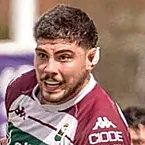
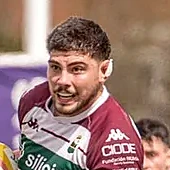
Retratos más grandes: Mateo sale de la foto completa del equipo
La miniatura de WhatsApp tenía la cabeza de Mateo en ~75px y era la
que ponía el techo de toda la fila. En la foto del 4x sub 23 mide
~195px: 2,6 veces más. Con eso deja de ser el eslabón flojo y pasa a
ser el más nítido de los tres.

El recorte se corta en x=315 a propósito: más a la derecha entra el
compañero de al lado y, en un círculo de 72px, su pelo rubio quedaba
como una mancha pegada a la cabeza de Mateo.

Ahora el techo lo pone Bautista, que viene de una foto de partido:
le di un poco más de recorte (145 -> 170px) y con eso los tres
retratos suben de 64 a 72px, nítidos al doble de densidad.

Claude-Session: https://claude.ai/code/session_01QtkrdvrrydSAuhSUbkMNvT

diff --git a/index.html b/index.html
@@ -46,7 +46,7 @@
 <link rel="preload" href="assets/fonts/archivo-var-latin.woff2" as="font" type="font/woff2" crossorigin>
 <link rel="preload" href="assets/fonts/archivo-black-latin.woff2" as="font" type="font/woff2" crossorigin>
 <link rel="preload" href="assets/fonts/barlow-cond-600-latin.woff2" as="font" type="font/woff2" crossorigin>
-<link rel="stylesheet" href="styles.css?v=20261058">
+<link rel="stylesheet" href="styles.css?v=20261059">
 </head>
 <body>
 
@@ -440,17 +440,17 @@
       <article class="voice reveal">
         <svg class="quote-mark" viewBox="0 0 40 30" aria-hidden="true"><path d="M0 30V16C0 7 5 1 15 0l2 5c-5 1-8 4-8 9h7v16H0zm23 0V16c0-9 5-15 15-16l2 5c-5 1-8 4-8 9h7v16H23z"/></svg>
         <p>Un espacio que disfruto mucho y recomiendo constantemente a mis amigos. Me ayuda a no perder el foco en las cosas que puedo controlar, y a abrazar las situaciones que la vida me presenta.</p>
-        <footer><span class="voice-foto"><span class="voice-ini" aria-hidden="true">AL</span><img src="assets/img/voces/alejo.webp" alt="Alejo Lavayen" width="200" height="200" loading="lazy" decoding="async"><svg class="voice-aro" viewBox="0 0 72 72" aria-hidden="true"><circle pathLength="1" cx="36" cy="36" r="34.6"/></svg></span><span class="voice-who"><span class="voice-name">Alejo Lavayen</span><span class="voice-sport">Rugby · Los Pumas 7s</span></span></footer>
+        <footer><span class="voice-foto"><span class="voice-ini" aria-hidden="true">AL</span><img src="assets/img/voces/alejo.webp" alt="Alejo Lavayen" width="216" height="216" loading="lazy" decoding="async"><svg class="voice-aro" viewBox="0 0 84 84" aria-hidden="true"><circle pathLength="1" cx="42" cy="42" r="40.6"/></svg></span><span class="voice-who"><span class="voice-name">Alejo Lavayen</span><span class="voice-sport">Rugby · Los Pumas 7s</span></span></footer>
       </article>
       <article class="voice reveal">
         <svg class="quote-mark" viewBox="0 0 40 30" aria-hidden="true"><path d="M0 30V16C0 7 5 1 15 0l2 5c-5 1-8 4-8 9h7v16H0zm23 0V16c0-9 5-15 15-16l2 5c-5 1-8 4-8 9h7v16H23z"/></svg>
         <p>Me hizo llegar a hacerme preguntas que quizás antes no me hubiera planteado. Noté cómo la confianza y la preparación mental evolucionaron.</p>
-        <footer><span class="voice-foto"><span class="voice-ini" aria-hidden="true">BA</span><img src="assets/img/voces/bauti.webp" alt="Bautista Arranz" width="145" height="145" loading="lazy" decoding="async"><svg class="voice-aro" viewBox="0 0 72 72" aria-hidden="true"><circle pathLength="1" cx="36" cy="36" r="34.6"/></svg></span><span class="voice-who"><span class="voice-name">Bautista Arranz</span><span class="voice-sport">Rugby · División de Honor, España</span></span></footer>
+        <footer><span class="voice-foto"><span class="voice-ini" aria-hidden="true">BA</span><img src="assets/img/voces/bauti.webp" alt="Bautista Arranz" width="170" height="170" loading="lazy" decoding="async"><svg class="voice-aro" viewBox="0 0 84 84" aria-hidden="true"><circle pathLength="1" cx="42" cy="42" r="40.6"/></svg></span><span class="voice-who"><span class="voice-name">Bautista Arranz</span><span class="voice-sport">Rugby · División de Honor, España</span></span></footer>
       </article>
       <article class="voice reveal">
         <svg class="quote-mark" viewBox="0 0 40 30" aria-hidden="true"><path d="M0 30V16C0 7 5 1 15 0l2 5c-5 1-8 4-8 9h7v16H0zm23 0V16c0-9 5-15 15-16l2 5c-5 1-8 4-8 9h7v16H23z"/></svg>
         <p>Me llevo una madurez emocional enorme. Aunque creas que estás bien, siempre hay un escalón más para subir y potenciar tu rendimiento.</p>
-        <footer><span class="voice-foto"><span class="voice-ini" aria-hidden="true">MW</span><img src="assets/img/voces/mateo.webp" alt="Mateo Wingord" width="130" height="130" loading="lazy" decoding="async"><svg class="voice-aro" viewBox="0 0 72 72" aria-hidden="true"><circle pathLength="1" cx="36" cy="36" r="34.6"/></svg></span><span class="voice-who"><span class="voice-name">Mateo Wingord</span><span class="voice-sport">Remo</span></span></footer>
+        <footer><span class="voice-foto"><span class="voice-ini" aria-hidden="true">MW</span><img src="assets/img/voces/mateo.webp" alt="Mateo Wingord" width="216" height="216" loading="lazy" decoding="async"><svg class="voice-aro" viewBox="0 0 84 84" aria-hidden="true"><circle pathLength="1" cx="42" cy="42" r="40.6"/></svg></span><span class="voice-who"><span class="voice-name">Mateo Wingord</span><span class="voice-sport">Remo</span></span></footer>
       </article>
 
     </div>
@@ -579,9 +579,9 @@
   <span class="wa-label">Escribime</span>
 </a>
 
-<script defer src="lib/gsap.min.js?v=20261058"></script>
-<script defer src="lib/ScrollTrigger.min.js?v=20261058"></script>
-<script defer src="hero.js?v=20261058"></script>
-<script defer src="main.js?v=20261058"></script>
+<script defer src="lib/gsap.min.js?v=20261059"></script>
+<script defer src="lib/ScrollTrigger.min.js?v=20261059"></script>
+<script defer src="hero.js?v=20261059"></script>
+<script defer src="main.js?v=20261059"></script>
 </body>
 </html>

diff --git a/styles.css b/styles.css
@@ -870,20 +870,21 @@ ul,ol{margin:0;padding:0;list-style:none}
    del recorte entero: con fondos tan distintos, la media global mide
    el fondo y no la cara.
 
-   El tamaño lo manda la foto más chica que hay (Mateo, 130px de
-   origen): 64px es el techo para que siga nítida al doble de
-   densidad. Con fotos más grandes se puede duplicar.
+   El tamaño lo manda la foto más chica. Era la de Mateo, recortada
+   de WhatsApp, con la cabeza en 75px; con la foto completa del
+   equipo pasó a 195px. Ahora el techo lo pone Bautista, que viene de
+   una foto de partido: 170px de origen para 72px en pantalla.
    Las iniciales quedan detrás como respaldo: si la foto no carga,
    la tarjeta sigue teniendo su chapa. */
-.voice-foto{position:relative;width:64px;height:64px;flex:none}
+.voice-foto{position:relative;width:72px;height:72px;flex:none}
 .voice-ini{position:absolute;inset:0;border-radius:50%;display:grid;place-items:center;
-  background:var(--ink);color:var(--cel);font-family:var(--display);font-size:16px;letter-spacing:-.02em}
+  background:var(--ink);color:var(--cel);font-family:var(--display);font-size:18px;letter-spacing:-.02em}
 .voice-foto img{position:absolute;inset:0;width:100%;height:100%;object-fit:cover;
   border-radius:50%;display:block}
 /* El aro se dibuja cuando la tarjeta entra, igual que los íconos de
    "¿Para quiénes?". Es lo que hace que un retrato chico se lea como
    una pieza y no como una miniatura pegada. */
-.voice-aro{position:absolute;left:-5px;top:-5px;width:74px;height:74px;overflow:visible}
+.voice-aro{position:absolute;left:-6px;top:-6px;width:84px;height:84px;overflow:visible}
 .voice-aro circle{fill:none;stroke:var(--cel);stroke-width:1.6;stroke-linecap:round;
   stroke-dasharray:1;stroke-dashoffset:1;transform:rotate(-90deg);transform-origin:center}
 .voice.is-in .voice-aro circle{animation:aroVoz 1s var(--ease-out) .45s forwards}
